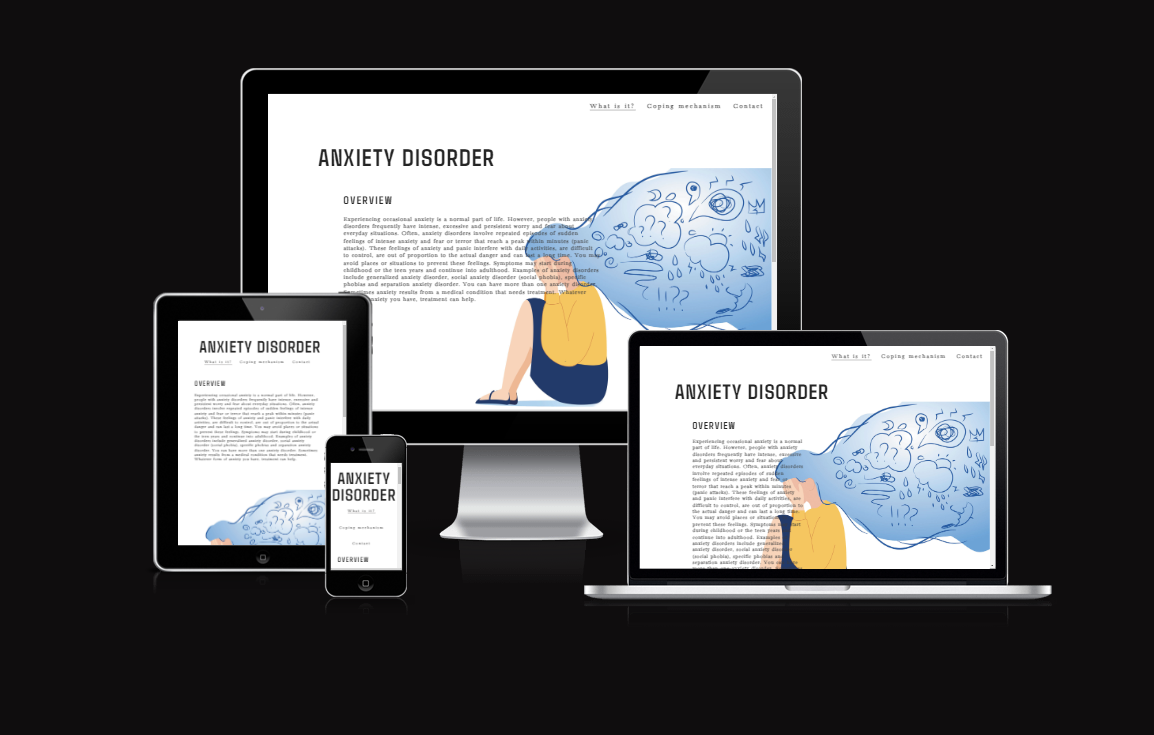
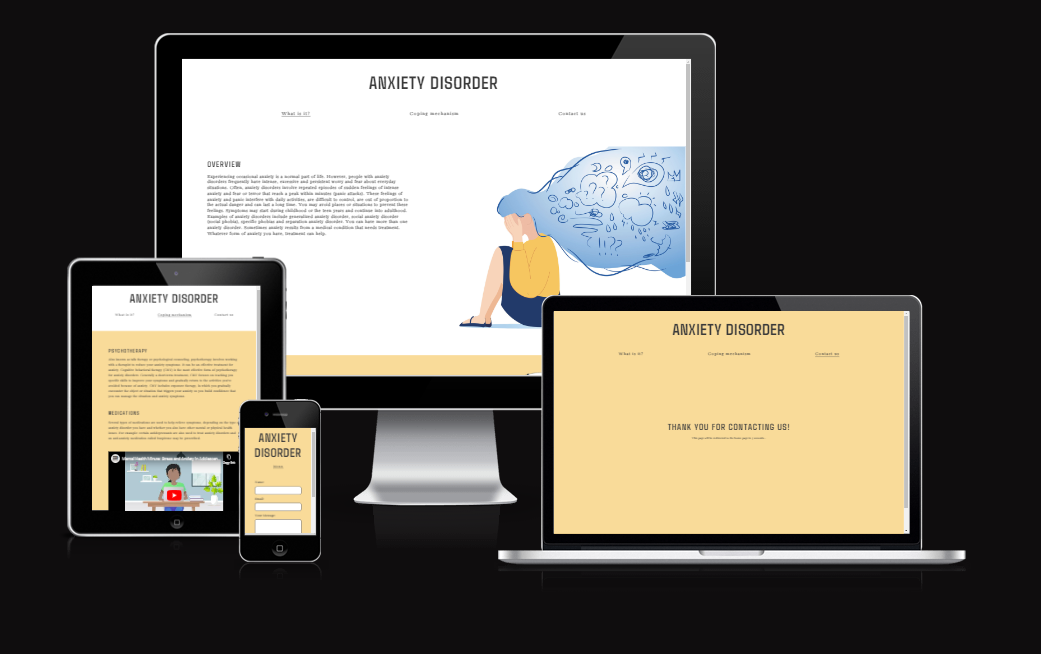
Change wireframes and am i responsive images.

diff --git a/README.md b/README.md
@@ -2,6 +2,7 @@
 
 [View the live website here.](https://stjepanmesaros.github.io/portfolio-project-one-anxiety/)
 
+## Project Rationale
 This is an educational and informative website concerning Anxiety; one of highly spread out mental health illnesses. The website specifically aims to inform it's viewers about what exactly is anxiety and how we can essentially cope with it. Visitors are presented with an array of helplines ready for them with just a click away located in the footer of every page. For visitors convenience a "Contact Us" page was created as well that will allow them to get in touch if they need any extra information or help.
 
 <h2 align="center"><img src="assets/images/responsive-representation.png"></h2>
@@ -37,6 +38,7 @@ This is an educational and informative website concerning Anxiety; one of highly
     -   [Home Page](assets/images/wireframe-1.png)
     -   [Coping Mechanisms Page](assets/images/wireframe-2.png)
     -   [Contact Us Page](assets/images/wireframe-3.png)
+    -   [Thank You Page](assets/images/wireframe-4.png)
 ## Features
 
 -   ### All Pages
